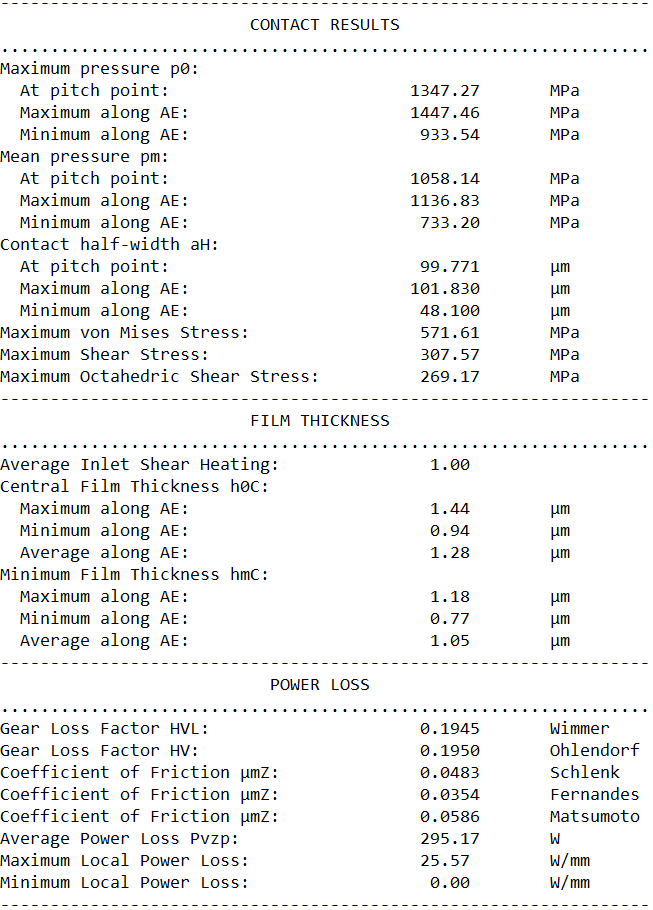
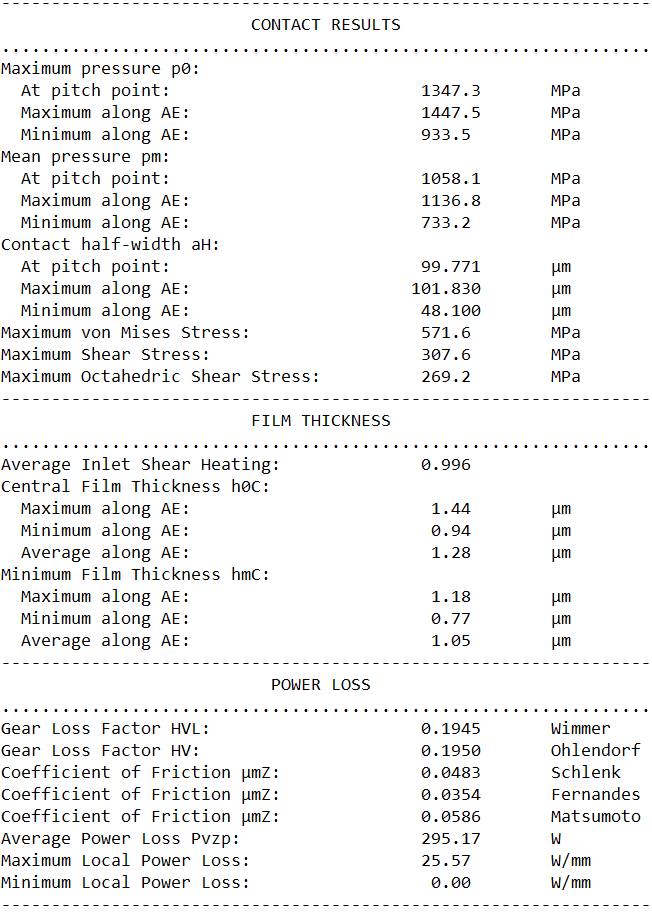
UPDATE PRINT

diff --git a/CLASSES/OUTPUT_PRINT.py b/CLASSES/OUTPUT_PRINT.py
@@ -172,21 +172,21 @@ class PRINTING:
         print(dots, file=f)
         print('Maximum pressure p0:', file=f)
         print('{:<35s}{:^20s}{:<10s}'.format(
-            '  At pitch point:', "%.2f" % GCONTACT.p0I, 'MPa'), file=f)
+            '  At pitch point:', "%.1f" % GCONTACT.p0I, 'MPa'), file=f)
         print('{:<35s}{:^20s}{:<10s}'.format('  Maximum along AE:',
-                                             "%.2f" % GCONTACT.p0.max(),
+                                             "%.1f" % GCONTACT.p0.max(),
                                              'MPa'), file=f)
         print('{:<35s}{:^20s}{:<10s}'.format('  Minimum along AE:',
-                                             "%.2f" % GCONTACT.p0.min(),
+                                             "%.1f" % GCONTACT.p0.min(),
                                              'MPa'), file=f)
         print('Mean pressure pm:', file=f)
-        print('{:<35s}{:^20s}{:<10s}'.format('  At pitch point:', "%.2f" %
+        print('{:<35s}{:^20s}{:<10s}'.format('  At pitch point:', "%.1f" %
                                              GCONTACT.pmI, 'MPa'), file=f)
         print('{:<35s}{:^20s}{:<10s}'.format('  Maximum along AE:',
-                                             "%.2f" % GCONTACT.pm.max(),
+                                             "%.1f" % GCONTACT.pm.max(),
                                              'MPa'), file=f)
         print('{:<35s}{:^20s}{:<10s}'.format('  Minimum along AE:',
-                                             "%.2f" % GCONTACT.pm.min(),
+                                             "%.1f" % GCONTACT.pm.min(),
                                              'MPa'), file=f)
         print('Contact half-width aH:', file=f)
         print('{:<35s}{:^20s}{:<10s}'.format('  At pitch point:',
@@ -201,19 +201,19 @@ class PRINTING:
                                              (GCONTACT.aH.min()*1e3),
                                              '\u03BCm'), file=f)
         print('{:<35s}{:^20s}{:<10s}'.format(
-            'Maximum von Mises Stress:', "%.2f" % GCONTACT.SMises.max(), 
+            'Maximum von Mises Stress:', "%.1f" % GCONTACT.SMises.max(), 
             'MPa'), file=f)
         print('{:<35s}{:^20s}{:<10s}'.format(
-            'Maximum Shear Stress:', "%.2f" % GCONTACT.Tmax.max(), 'MPa'), 
+            'Maximum Shear Stress:', "%.1f" % GCONTACT.Tmax.max(), 'MPa'), 
             file=f)
         print('{:<35s}{:^20s}{:<10s}'.format(
-            'Maximum Octahedric Shear Stress:', "%.2f" % GCONTACT.Toct.max(), 
+            'Maximum Octahedric Shear Stress:', "%.1f" % GCONTACT.Toct.max(), 
             'MPa'), file=f)
         print(dash, file=f)
         print('{:^65s}'.format('FILM THICKNESS'), file=f)
         print(dots, file=f)
         print('{:<35s}{:^20s}{:<10s}'.format('Average Inlet Shear Heating:',
-                                             "%.2f" % GCONTACT.phiT.mean(),
+                                             "%.3f" % GCONTACT.phiT.mean(),
                                              ''), file=f)
         print('Central Film Thickness h0C:', file=f)
         print('{:<35s}{:^20s}{:<10s}'.format('  Maximum along AE:',
